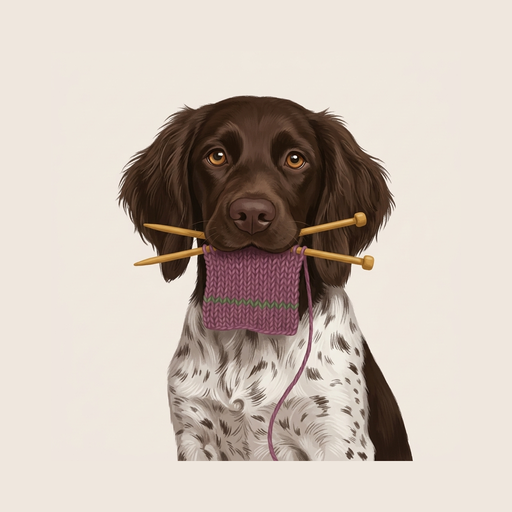
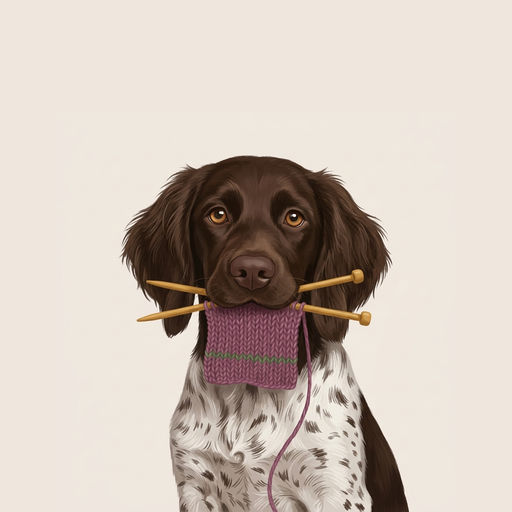
Rundt app-ikon zoomet ud, så mere af Monster er med
Claude-Session: https://claude.ai/code/session_01RZLAnXwEeS7fiLAGBRU6w7

Changed region(s): [[0.2188, 0.1875, 0.8125, 1.0]]

diff --git a/sw.js b/sw.js
@@ -1,5 +1,5 @@
 // Gør appen brugbar uden internet. Hæv versionen, når der lægges en ny udgave op.
-const CACHE = "strikkemonster-v3";
+const CACHE = "strikkemonster-v4";
 const FILES = ["./", "index.html", "style.css", "app.js", "manifest.webmanifest", "icon-192.png", "icon-512.png", "icon-maskable.png", "apple-touch-icon.png", "favicon.png", "monster.jpg", "monster-head.png", "vendor/pdf.min.js", "vendor/pdf.worker.min.js"];
 
 self.addEventListener("install", e => {
